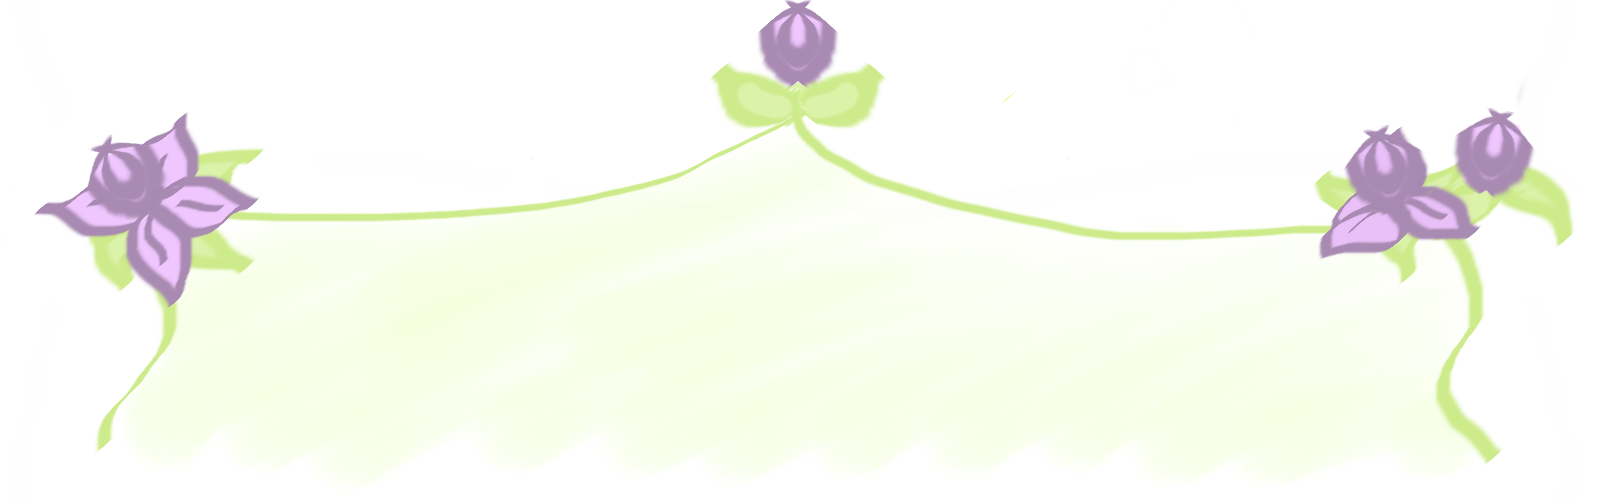
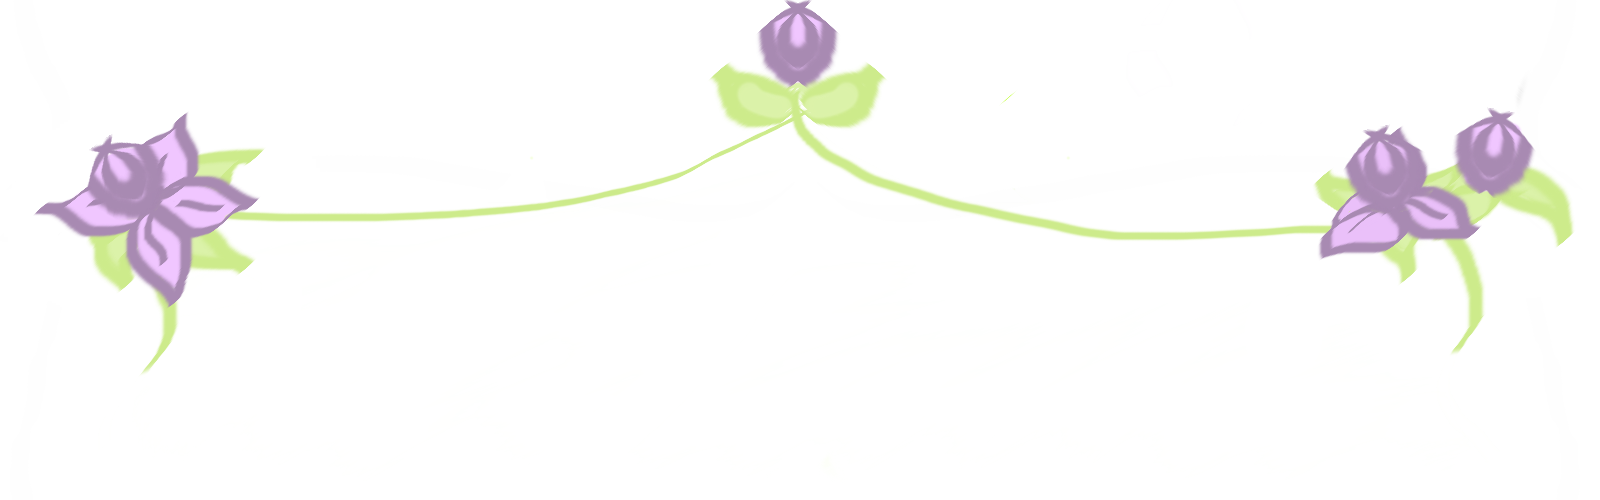
Header
Refined header for changing window sizes.

diff --git a/index.html b/index.html
@@ -4,23 +4,18 @@
 <head>
 	<title>The Tail of Herschel Van Ratt</title>
 	<link rel="stylesheet" href="style.css">
-	<link href="https://fonts.googleapis.com/css?family=Amatic+SC|Arapey|Cherry+Swash|Courgette|Lobster|Lobster+Two|Lora|Poiret+One|Satisfy" rel="stylesheet">
-	<!--<link rel="stylesheet" href="https://maxcdn.bootstrapcdn.com/bootstrap/3.3.7/css/bootstrap.min.css" integrity="sha384-BVYiiSIFeK1dGmJRAkycuHAHRg32OmUcww7on3RYdg4Va+PmSTsz/K68vbdEjh4u" crossorigin="anonymous">
-	<meta name="viewport" content="width=device-width, initial-scale=1"> -->
+	<link href="https://fonts.googleapis.com/css?family=Arapey|Courgette|Poiret+One" rel="stylesheet">
 </head>
 
 <body>
 	<div class="jumbotron">
 		<h1>The <span class="emphasis">Tail</span> of<br><span class="big-emphasis">Herschel Van Ratt</span></h1>
-		<!--<img id="title-pic" src="hvr-title.png" height="300px" alt="Herschel the rat"> -->
-
 	</div>
 
 <div class="container">
-	<section>
-		<div class="byline">
-			<byline>Carrie Crow</byline>
-		</div>
+	<byline>By: Carrie Crow</byline>
+	<section>		
+			<br><br>
 			<p>Sunlight flooded the park. The only fortress from the perfect summer day hid beneath the mailbox. Its steel underbelly didn’t defend from the breeze. While perfect to cool those in the sun, for Herschel Van Ratt the wind brought chills and taunting smells from the idyllic scene outside. People tossed treats to socially acceptable scavengers. Pigeons pecked at bread, tastebuds clueless to whether it was white, wheat, focaccia, or pumpernickel. And the squirrels. Rats in cognito, tails plump with fluff. <br><br>
 			Herschel sat back on his haunches. The moment his bald tail hit the sun, a cacophony of screams, stomping feet, and “Rat! Kill it!” erupted. People hopped atop benches to throw things at him. Not edible things, but sharp or heavy things. Meanwhile, rodents of the squirrely persuasion and disease ridden pigeons wandered freely.<br><br></p>
 
@@ -135,7 +130,6 @@
 		<img src="hvr-fence-07.png" height="600px" alt="Herschel - one happy rodent.">
 
 	</section>
-
 
 </div>
 

diff --git a/style.css b/style.css
@@ -3,7 +3,7 @@ h1 {
 	font-family: 'Poiret One', cursive;
 	font-size: 40px;
 	text-align: center;
-	padding:200px 5px 5px 5px;
+	padding:100px 5px 5px 5px;
 }
 
 .emphasis {
@@ -15,15 +15,12 @@ h1 {
 
 .jumbotron {
 	position:relative;
-	height: 500px;
-	width: 1600px;
+	height: 33%;
+	width: 75%;
 	background-image: url("header-flourish.png");
+	background-size: 100%;
+	background-repeat: no-repeat;
 	margin: auto;
-	/*background: -moz-linear-gradient(top, rgba(205,235,139,1) 0%, rgba(205,235,139,0.6) 83%, rgba(205,235,139,0.6) 100%); /*FF3.6-15*/
-	/*background: -webkit-linear-gradient(top, rgba(205,235,139,1) 0%,rgba(205,235,139,0.6) 83%,rgba(205,235,139,0.6) 100%); /*( Chrome10-25,Safari5.1-6 )*/
-	/*background: linear-gradient(to bottom, rgba(205,235,139,1) 0%,rgba(205,235,139,0.6) 83%,rgba(205,235,139,0.6) 100%); /*( W3C, IE10+, FF16+, Chrome26+, Opera12+, Safari7+ )*/
-	/*filter: progid:DXImageTransform.Microsoft.gradient( startColorstr='#cdeb8b', endColorstr='#99cdeb8b',GradientType=0 );
-	border: 5px outset rgba(168, 138, 178, 1.0);*/
 }
 
 .big-emphasis {
@@ -32,13 +29,6 @@ h1 {
 	position: relative;
 	z-index: 1;
 
-}
-
-#title-pic {
-	float: center;
-	/*right: 0;
-	top: 50%;
-	transform:translateY(-50%);*/
 }
 
 body {
@@ -52,10 +42,6 @@ byline {
 	color: rgb(168, 138, 178);
 	margin: 15px;
 	border-bottom: 2px solid rgba(245, 255, 222, 0.5);
-}
-
-.byline {
-
 }
 
 .container {
@@ -89,12 +75,6 @@ p:first-child:first-letter {
 	float: left;
 	padding-right:8px;
 	line-height: 50px;
-
-  /* font-size: 75px;
-
-  padding-top: 4px;
-
-  padding-left: 3px; */
 }
 
 
